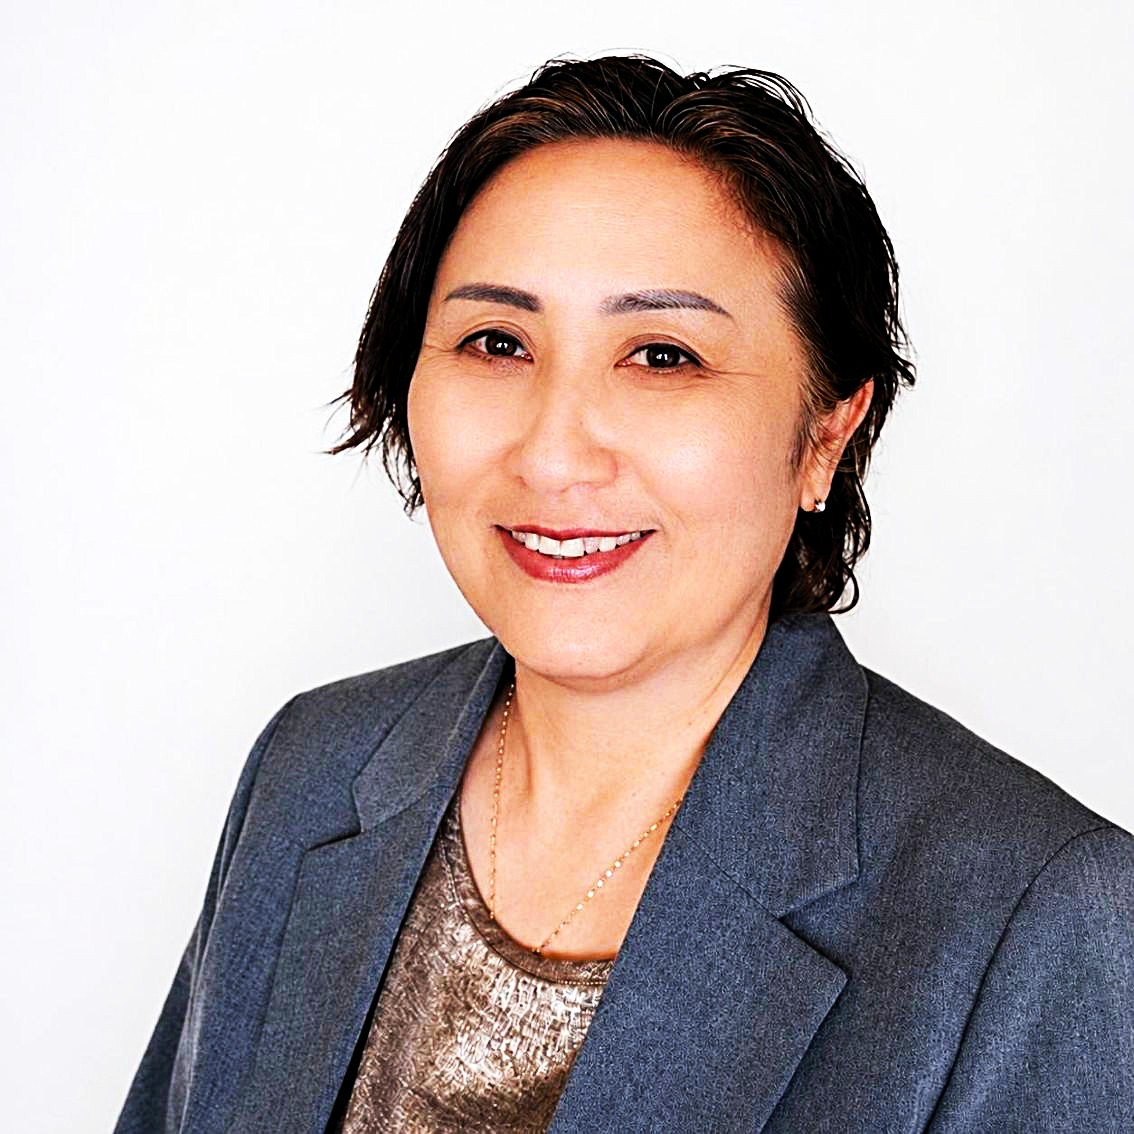
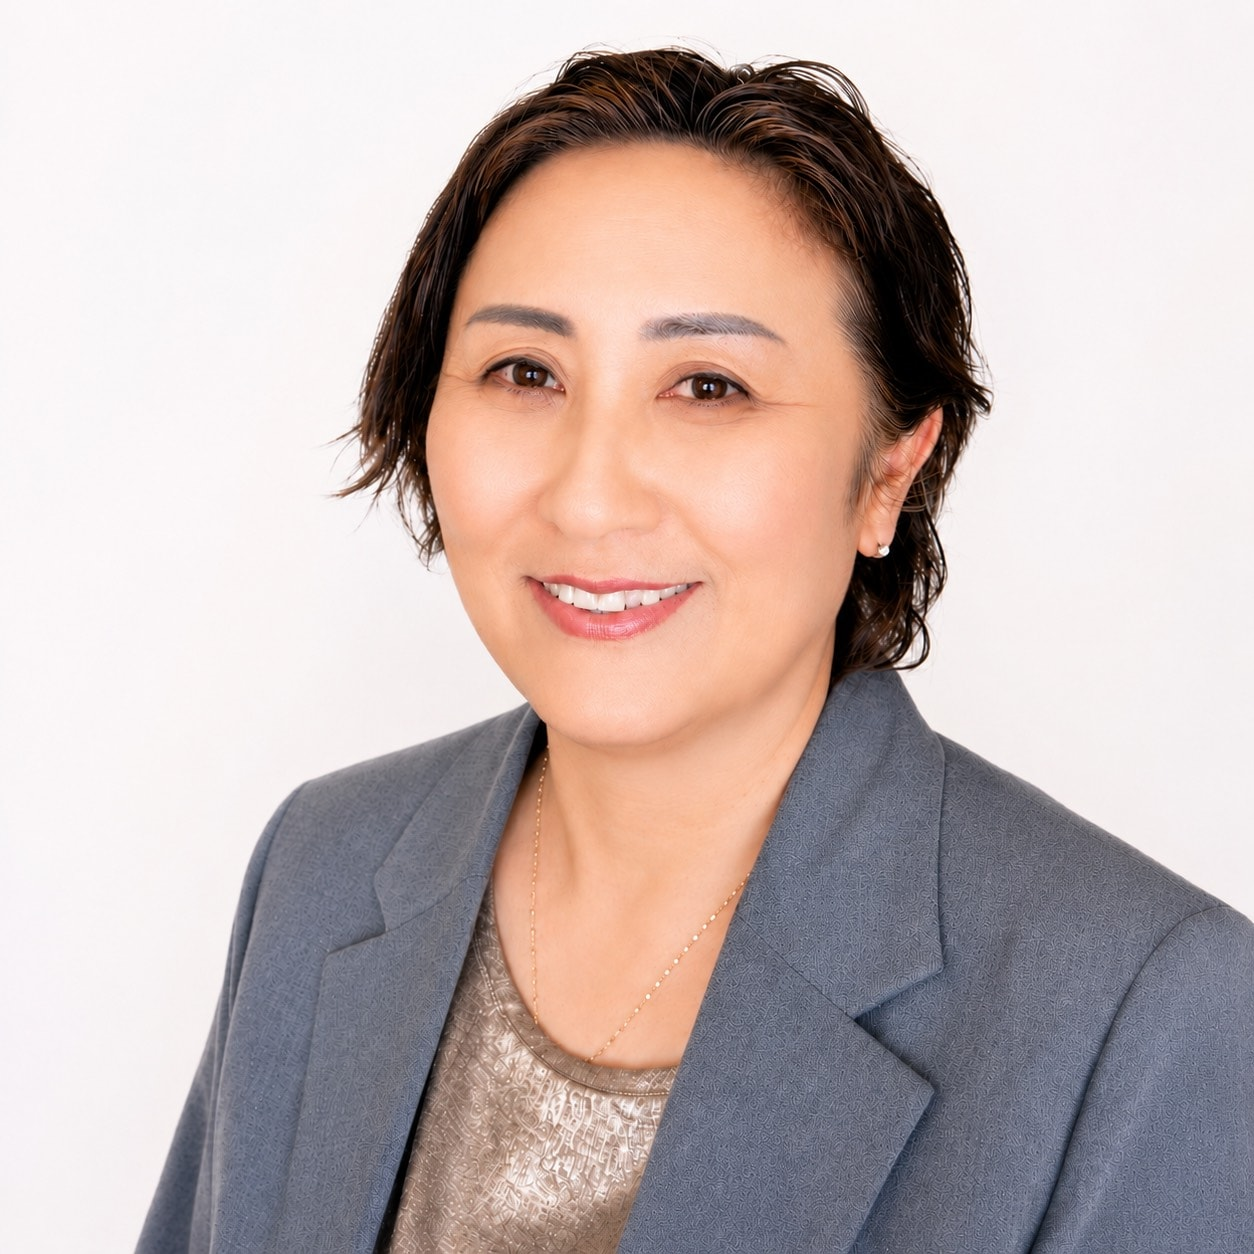
人物写真を新しい公式写真へ全面差し替え

diff --git a/src/config/siteConfig.ts b/src/config/siteConfig.ts
@@ -35,12 +35,12 @@ export const siteConfig = {
     "福富千恵と延岡を動かす会の公式ホームページです。福富千恵のプロフィール、延岡への提言、活動報告、市民の声（みんなの声）を発信しています。",
 
   /**
-   * 共通OGP画像（1200×630px、public/images/ogp/ogp-fukutomi-20260715.png）。
+   * 共通OGP画像（1200×630px、public/images/ogp/ogp-fukutomi-20260717.png）。
    * トップページおよび個別OGP画像を持たない全ページで使用されます。
    * 差し替える場合は、SNS側のキャッシュ対策としてファイル名に日付等を含めた
    * 新しいファイル名を使い、このパスも合わせて変更してください。
    */
-  defaultOgpImage: "/images/ogp/ogp-fukutomi-20260715.png",
+  defaultOgpImage: "/images/ogp/ogp-fukutomi-20260717.png",
 
   /** ロケール */
   locale: "ja_JP",

diff --git a/README.md b/README.md
@@ -284,7 +284,7 @@ line: "https://line.me/xxxxx",
 
 ## 12. OGP画像を変更する方法
 
-**保存場所**：`public/images/ogp/ogp-fukutomi-20260715.png`（1200×630px）
+**保存場所**：`public/images/ogp/ogp-fukutomi-20260717.png`（1200×630px）
 
 トップページを含め、個別のOGP画像を持たない全ページで共通のOGP画像として使用されています（`src/config/siteConfig.ts` の `defaultOgpImage` で指定）。
 